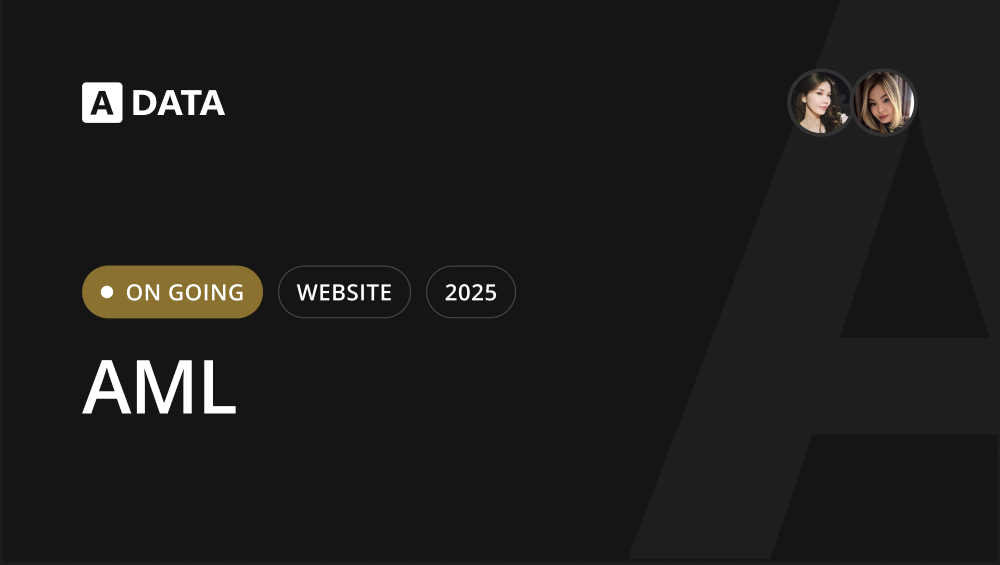
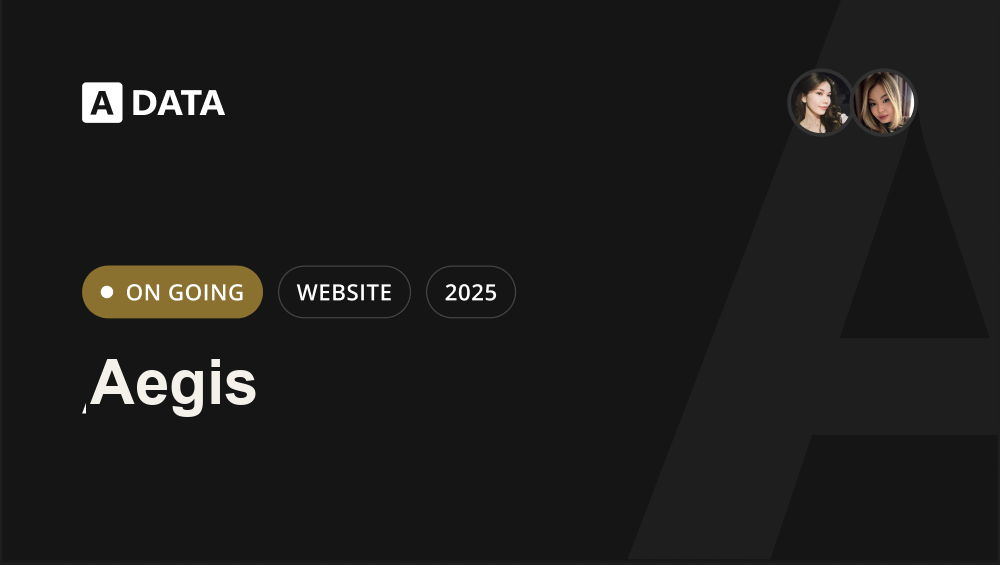
Aegis/Candor real screens (relabeled); Prism live screens + AI badge + live link

Changed region(s): [[0.062, 0.6319, 0.279, 0.7522]]

diff --git a/main.js b/main.js
@@ -107,7 +107,7 @@ const I18N = {
     'pg.h1': 'Experiments, <em>off the clock</em>.', 'pg.p': 'Loose explorations, color studies, and interface ideas that didn\'t fit anywhere else. Grab a piece and drag it around — it\'s a playground, after all.', 'pg.hint': '✋ Drag the pieces around',
     'cs.back': '← All work', 'cs.intro': 'Intro', 'cs.role': 'Role', 'cs.status': 'Status', 'cs.type': 'Type',
     'cs.problems': 'The challenge', 'cs.solution': 'The solution', 'cs.results': 'The outcome', 'cs.gallery': 'Screenshot gallery',
-    'cs.next': 'Next up', 'cs.viewcase': 'View case study', 'cs.viewproj': 'View project', 'cs.soon': 'Coming soon', 'drag': 'Drag',
+    'cs.next': 'Next up', 'cs.viewcase': 'View case study', 'cs.viewproj': 'View project', 'cs.viewlive': 'View live site', 'cs.soon': 'Coming soon', 'drag': 'Drag',
     spk: { problem: 'Checking a counterparty meant jumping between many separate registries and sources — slow, and easy to miss something.', solution: 'I designed a global search that unifies people, companies, filings, and trade data, with dossiers that pull it all together.', result: 'A fast, search-first way to run due diligence, in a calm dark UI built for long sessions.' }
   },
   ru: {
@@ -145,7 +145,7 @@ const I18N = {
     'pg.h1': 'Эксперименты <em>в свободное время</em>.', 'pg.p': 'Свободные исследования, цветовые этюды и идеи интерфейсов, которым не нашлось места. Возьмите элемент и потяните — это же лаборатория.', 'pg.hint': '✋ Перетаскивайте элементы',
     'cs.back': '← Все работы', 'cs.intro': 'Вступление', 'cs.role': 'Роль', 'cs.status': 'Статус', 'cs.type': 'Тип',
     'cs.problems': 'Задача', 'cs.solution': 'Решение', 'cs.results': 'Результат', 'cs.gallery': 'Галерея скриншотов',
-    'cs.next': 'Далее', 'cs.viewcase': 'Смотреть кейс', 'cs.viewproj': 'Смотреть проект', 'cs.soon': 'Скоро', 'drag': 'Тяни'
+    'cs.next': 'Далее', 'cs.viewcase': 'Смотреть кейс', 'cs.viewproj': 'Смотреть проект', 'cs.viewlive': 'Открыть сайт', 'cs.soon': 'Скоро', 'drag': 'Тяни'
   }
 };
 
@@ -355,18 +355,20 @@ const MEANING = {
   }
 };
 const PREVIEW = {
-  'aml': ['shots/aml.png', 'shots/aml-1.png', 'shots/aml-2.png', 'shots/aml-3.png'],
-  'speakup': ['shots/speakup.png', 'shots/speakup-landing.png', 'shots/speakup-admin2.png', 'shots/speakup-admin1.png', 'shots/speakup-kanban.png'],
-  'ai-landings': ['shots/ai-landings.png', 'shots/compliance.png', 'shots/landing-dark.png'],
+  'aml': ['shots/aml.png', 'shots/aegis-1.png', 'shots/aegis-2.png', 'shots/aegis-3.png', 'shots/aegis-4.png', 'shots/aegis-5.png'],
+  'speakup': ['shots/speakup.png', 'shots/candor-1.png', 'shots/candor-2.png', 'shots/candor-3.png', 'shots/candor-4.png', 'shots/candor-5.png'],
+  'ai-landings': ['shots/prism-1.png', 'shots/prism-2.png', 'shots/prism-3.png', 'shots/prism-4.png', 'shots/prism-5.png'],
   'compliance': ['shots/compliance.png', 'shots/landing-light.png', 'shots/landing-dark.png'],
   'digital-office': ['shots/do-messenger.png', 'shots/do-news.png', 'shots/do-knowledge.png', 'shots/do-compliance.png', 'shots/digital-office-screens.png'],
   'spk': ['shots/spk.png', 'shots/ean-dossier.png', 'shots/ean-zakupki.png', 'shots/ean-vypiski.png', 'shots/ean-esf.png', 'shots/ean-ved.png']
 };
 const LOGOS = { 'digital-office': 'shots/logo-do.png', 'spk': 'shots/logo-ean.png' };
+const LINKS = { 'ai-landings': 'https://ac.adata.kz/compliance' };
+const BADGES = { 'ai-landings': 'AI' };
 const SCREENS = {
-  'speakup': ['shots/speakup-landing.png', 'shots/speakup-admin2.png', 'shots/speakup-admin1.png', 'shots/speakup-kanban.png'],
-  'aml': ['shots/aml-1.png', 'shots/aml-2.png', 'shots/aml-3.png'],
-  'ai-landings': ['shots/compliance.png', 'shots/landing-dark.png'],
+  'speakup': ['shots/candor-1.png', 'shots/candor-2.png', 'shots/candor-3.png', 'shots/candor-4.png', 'shots/candor-5.png'],
+  'aml': ['shots/aegis-1.png', 'shots/aegis-2.png', 'shots/aegis-3.png', 'shots/aegis-4.png', 'shots/aegis-5.png'],
+  'ai-landings': ['shots/prism-1.png', 'shots/prism-2.png', 'shots/prism-3.png', 'shots/prism-4.png', 'shots/prism-5.png'],
   'compliance': ['shots/landing-light.png', 'shots/landing-dark.png'],
   'digital-office': ['shots/do-messenger.png', 'shots/do-news.png', 'shots/do-knowledge.png', 'shots/do-compliance.png', 'shots/digital-office-screens.png'],
   'spk': ['shots/ean-dossier.png', 'shots/ean-zakupki.png', 'shots/ean-vypiski.png', 'shots/ean-esf.png', 'shots/ean-ved.png']
@@ -452,7 +454,7 @@ if (list) {
         <div class="proj-head-row">
           <div class="proj-head-left">
             ${LOGOS[raw.id] ? `<img class="proj-logo" src="${LOGOS[raw.id]}" alt="" />` : ''}
-            <div class="proj-meta"><span class="name">${raw.name}</span><span class="kind">${p.kind}</span><span class="yr">${raw.yr}</span></div>
+            <div class="proj-meta"><span class="name">${raw.name}</span>${BADGES[raw.id] ? `<span class="proj-badge">${BADGES[raw.id]}</span>` : ''}<span class="kind">${p.kind}</span><span class="yr">${raw.yr}</span></div>
           </div>
           ${btn}
         </div>
@@ -484,9 +486,10 @@ if (csEl) {
     csEl.innerHTML = `
       <a class="cs-back" href="index.html">${t('cs.back')}</a>
       ${LOGOS[raw.id] ? `<div class="cs-icon cs-icon-img"><img src="${LOGOS[raw.id]}" alt="${raw.name}" /></div>` : `<div class="cs-icon" style="background:linear-gradient(135deg, ${raw.accent}, ${raw.accent}bb)">${raw.icon}</div>`}
-      <p class="cs-eyebrow">${raw.name} · ${p.kind} — ${raw.yr}</p>
+      <p class="cs-eyebrow">${raw.name}${BADGES[raw.id] ? ` <span class="proj-badge">${BADGES[raw.id]}</span>` : ''} · ${p.kind} — ${raw.yr}</p>
       <h1 class="cs-title">${p.title || p.subtitle}</h1>
       ${(MEANING[lang]||MEANING.en)[raw.id] ? `<p class="cs-meaning">${(MEANING[lang]||MEANING.en)[raw.id]}</p>` : ''}
+      ${LINKS[raw.id] ? `<a class="cs-live" href="${LINKS[raw.id]}" target="_blank" rel="noopener">${t('cs.viewlive')} ↗</a>` : ''}
       <div class="cs-grid">
         <div class="cs-intro"><p class="cs-label">${t('cs.intro')}</p>${paras(p.intro) || `<p>${p.subtitle}</p>`}</div>
         <div class="cs-meta">

diff --git a/styles.css b/styles.css
@@ -342,3 +342,9 @@ footer { padding: 96px 0 40px; }
 .proj-meaning b { color: var(--accent); font-weight: 600; }
 .cs-meaning { font-size: 15px; color: var(--soft); margin: 14px auto 0; max-width: 62ch; line-height: 1.5; }
 .cs-meaning b { color: var(--ink); font-weight: 600; }
+
+/* AI badge + live-site link */
+.proj-badge { display: inline-block; font-size: 11px; font-weight: 700; letter-spacing: .05em; color: #fff; background: var(--accent); padding: 2px 9px; border-radius: 999px; vertical-align: middle; }
+.cs-eyebrow .proj-badge { font-size: 10px; }
+.cs-live { display: inline-flex; align-items: center; gap: 6px; margin-top: 20px; font-size: 14px; font-weight: 500; color: #fff; background: var(--accent); padding: 11px 20px; border-radius: 999px; transition: filter .2s, transform .2s; }
+.cs-live:hover { transform: translateY(-2px); filter: brightness(1.06); }
